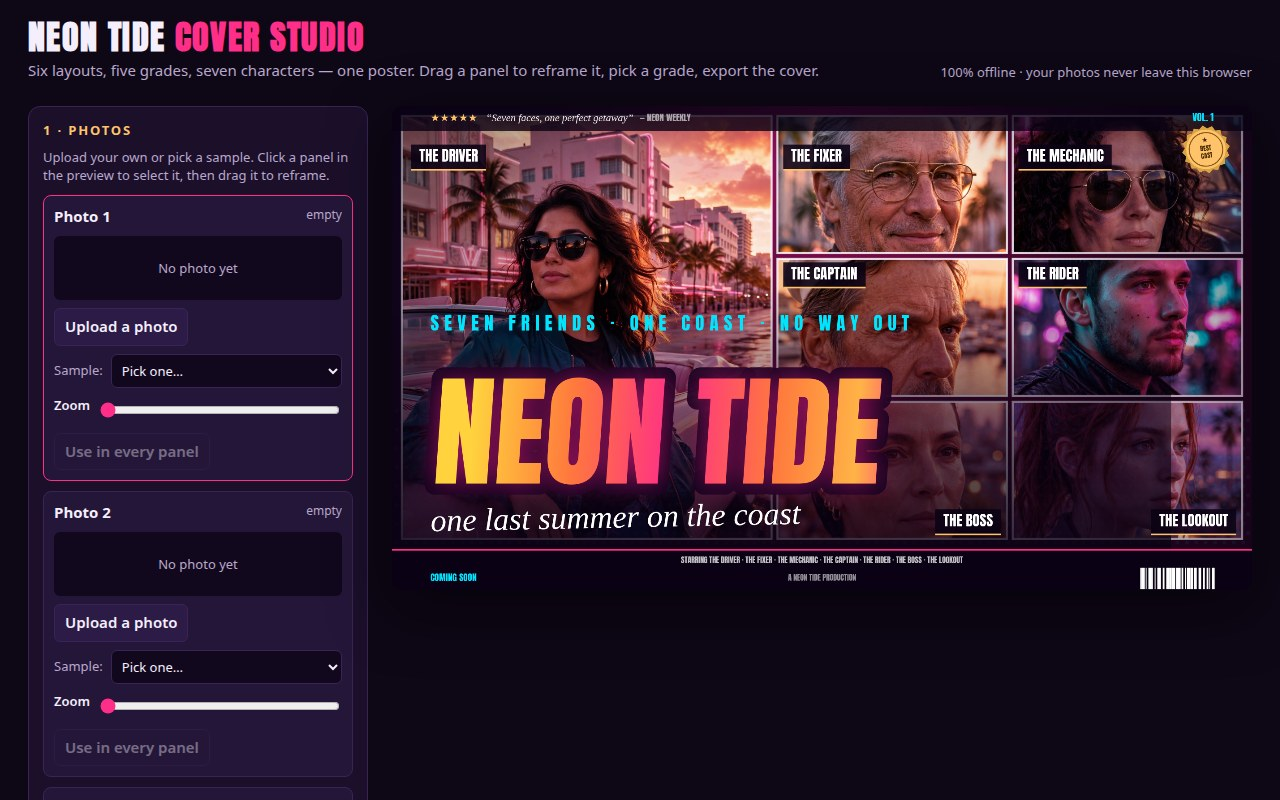
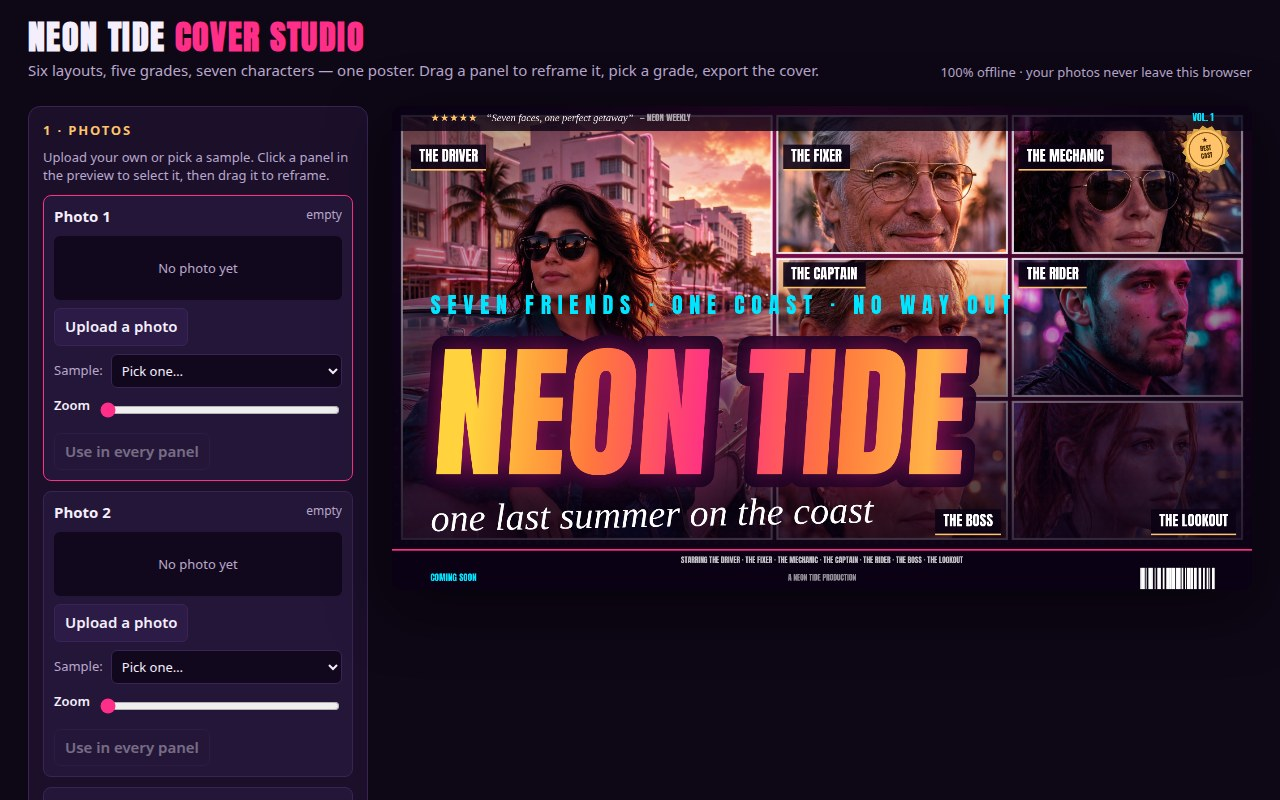
Neon Tide Cover Studio v5: grow the display title (single-line to ~68% of width, stacked portrait to 60%), tagline hugs the title clear of the role tags

Changed region(s): [[0.3125, 0.3438, 0.8125, 0.6875], [0.9062, 0.375, 0.9688, 0.6875]]

diff --git a/app/src/cover.js b/app/src/cover.js
@@ -279,7 +279,7 @@ function wrapCaption(ctx, text, maxWidth) {
 }
 
 /** The bold display lettering: Anton, striped sunset gradient fill, thick dark outline, hard shadow, slight lean. The tagline sits above the title, the handwritten subtitle below it, and the whole block stops above the billing strip. */
-function paintTitle(ctx, title, subtitle, tagline, grade, w, h) {
+function paintTitle(ctx, title, subtitle, tagline, grade, w, h, layout) {
   const billH = Math.round(h * 0.085);
   const margin = w * 0.045;
   const maxW = w - margin * 2;
@@ -288,8 +288,13 @@ function paintTitle(ctx, title, subtitle, tagline, grade, w, h) {
 
   // Grow the type until the widest line spans about seven tenths of the
   // poster, capped so one line never outgrows the band. One-line titles
-  // get the biggest letters; stacked titles grow to the same cap.
-  const sizeCap = Math.round(h * 0.25);
+  // get the biggest letters; stacked titles grow to the same cap — except
+  // in the cast grid on landscape and square posters, where a stacked
+  // title grows so tall its tagline is squeezed between the middle-row
+  // role tags and the title itself: there stacked lines stop at half the
+  // width instead, which leaves the tagline its clear band.
+  const sizeCap = Math.round(h * 0.3);
+  const stackTarget = layout === 'cast' && w >= h ? 0.5 : 0.6;
   let size = Math.round(h * 0.16);
   let lines = [];
   let widest = 0;
@@ -297,7 +302,7 @@ function paintTitle(ctx, title, subtitle, tagline, grade, w, h) {
     ctx.font = `${size}px Anton, sans-serif`;
     lines = wrapCaption(ctx, clean, maxW);
     widest = lines.reduce((m, l) => Math.max(m, ctx.measureText(l).width), 0);
-    if (widest >= maxW * 0.72 || (lines.length > 1 && widest >= maxW * 0.5) || size >= sizeCap) break;
+    if (widest >= maxW * 0.72 || (lines.length > 1 && widest >= maxW * stackTarget) || size >= sizeCap) break;
     const next = size + 4;
     ctx.font = `${next}px Anton, sans-serif`;
     const nextWidest = lines.reduce((m, l) => Math.max(m, ctx.measureText(l).width), 0);
@@ -325,7 +330,7 @@ function paintTitle(ctx, title, subtitle, tagline, grade, w, h) {
   // Bottom-up stack: billing strip, handwritten subtitle, title lines, tagline.
   const subY = h - billH - Math.round(margin * 0.45);
   const titleBottom = subY - subSize * 1.5;
-  const tagY = titleBottom - lines.length * lineH - tagSize * 1.4;
+  const tagY = titleBottom - lines.length * lineH - tagSize * 0.4;
 
   // The dark fade behind the block, so the letters read over any photo.
   const fadeTop = tagY - tagSize * 2.4;
@@ -672,7 +677,7 @@ export function paintPoster(canvas, state) {
   paintQuoteBar(ctx, grade, state.grade, w, h);
   paintSeal(ctx, grade, w, h);
   paintBilling(ctx, state.title, grade, w, h);
-  paintTitle(ctx, state.title, state.subtitle, state.tagline || '', grade, w, h);
+  paintTitle(ctx, state.title, state.subtitle, state.tagline || '', grade, w, h, state.layout);
   // Role tags paint last, on top of the title block as well as the wash.
   // Bottom-row tags go to the bottom-right corner on landscape and
   // square posters: their top-left spot sits dead-centre on the title
